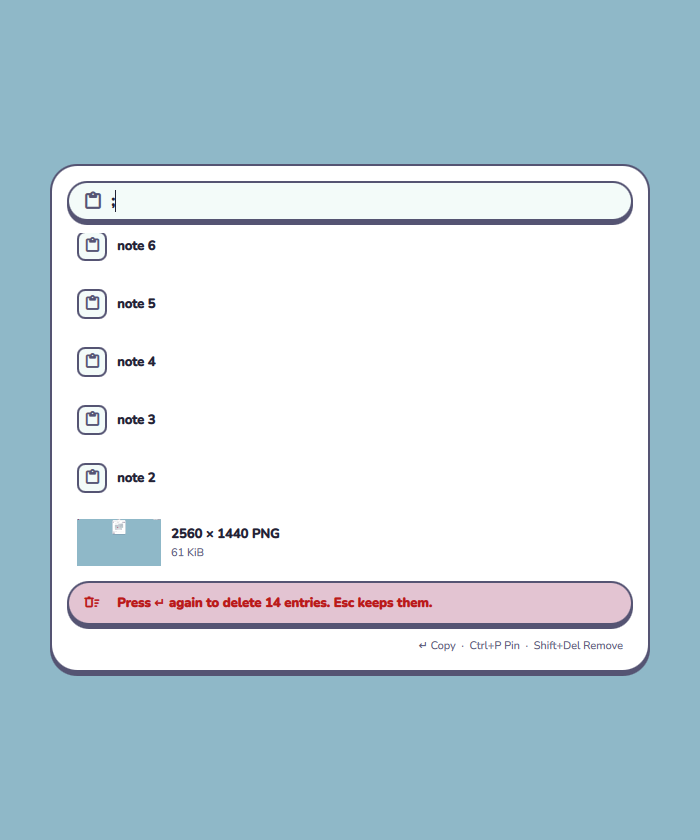
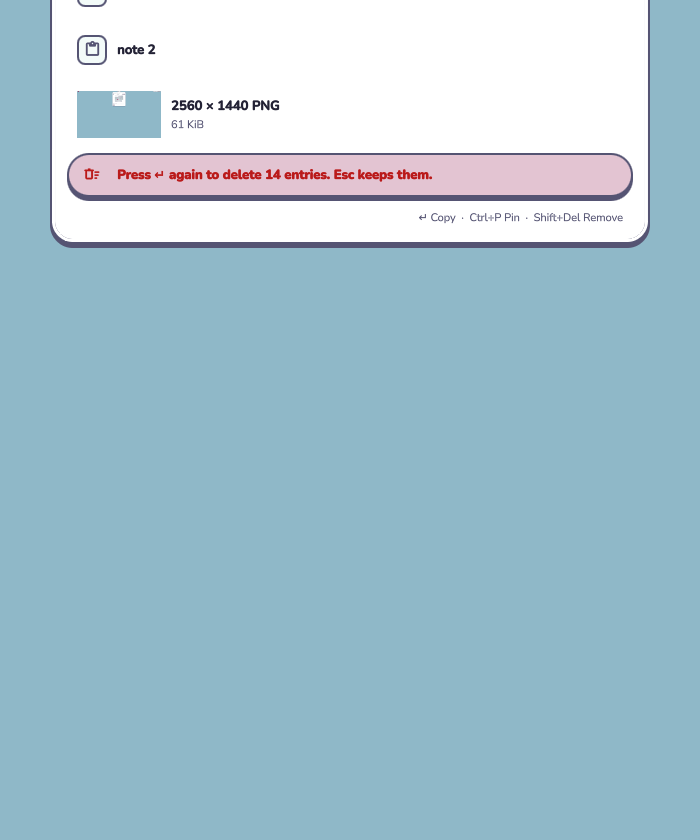
fix(toasts,launcher): the toast window keeps its height while a drop grows (a bottom bar's root stays on the bar); content cut to the shape until it rests; a motion-none case in the tests

diff --git a/frontend/surfaces/Toasts.qml b/frontend/surfaces/Toasts.qml
@@ -197,16 +197,20 @@ Scope {
         }
         readonly property real chipH: root.extra > 0 ? 28 + Theme.gap : 0
         // The lowest thing any card draws (a leaving card keeps its place until it is gone, a drop pulls past its place).
-        readonly property real extent: {
-            var n = stack.count, b = 0
+        // The window's height is the stack's at rest plus a drop's pull, set when a card comes or goes and not while a drop
+        // grows: a bottom-anchored window that resized every frame put the drop's root off the bar for a frame each time.
+        readonly property real stackFull: {
+            var n = stack.count, h = 0, b = 0
             for (var j = 0; j < n; j++) {
                 var it = stack.itemAt(j)
-                if (it) b = Math.max(b, it.extent)
+                if (!it) continue
+                if (it.leaving) b = Math.max(b, it.extent)
+                else h += it.cardH + Theme.gap
             }
-            return b
+            return Math.max(h, b - top0)
         }
         implicitWidth: drip ? cardW + 2 * slackX : shade + cardW + Theme.shadowDy + padR
-        implicitHeight: Math.ceil(Math.max(top0 + stackH + chipH, extent) + Theme.shadowDy + Theme.softR + (drip ? 24 : shade))
+        implicitHeight: Math.ceil(top0 + stackFull + chipH + Theme.shadowDy + Theme.softR + (drip ? stretch + 24 : shade))
         // A local y (and height) in this window's frame.
         function wy(y, h) { return flip ? height - y - h : y }
 
@@ -404,7 +408,8 @@ Scope {
                 readonly property real ly: detached ? ry + dy : by0
                 // A drop makes room as it grows (and pulls past its place), so the stack is pushed down rather than covered.
                 readonly property real space: leaving ? 0 : (detached ? cardH : bh + Math.max(0, by0 - restY))
-                readonly property real extent: leaving ? frozenY + cardH : Math.max(ly + cardH * (detached ? 1 - Math.min(0, sqz) : 1), by0 + bh)
+                // Where a leaving card stays drawn until it is gone (the window keeps room for it).
+                readonly property real extent: leaving ? frozenY + cardH : 0
                 // A drop is drawn over the stack it pushes down.
                 z: drawn ? 1 : 0
                 // Leaving: flicked to the side (a dismiss here), or drifting off as it fades (expired, or dismissed elsewhere).

diff --git a/frontend/components/launcher/BarMorph.qml b/frontend/components/launcher/BarMorph.qml
@@ -388,7 +388,7 @@ Item {
             y: cutTop
             width: cutRight - cutLeft
             height: cutBottom - cutTop
-            clip: m.morph && m.contentP < 1
+            clip: m.morph
             Item {
                 id: inner
                 x: -reveal.cutLeft
